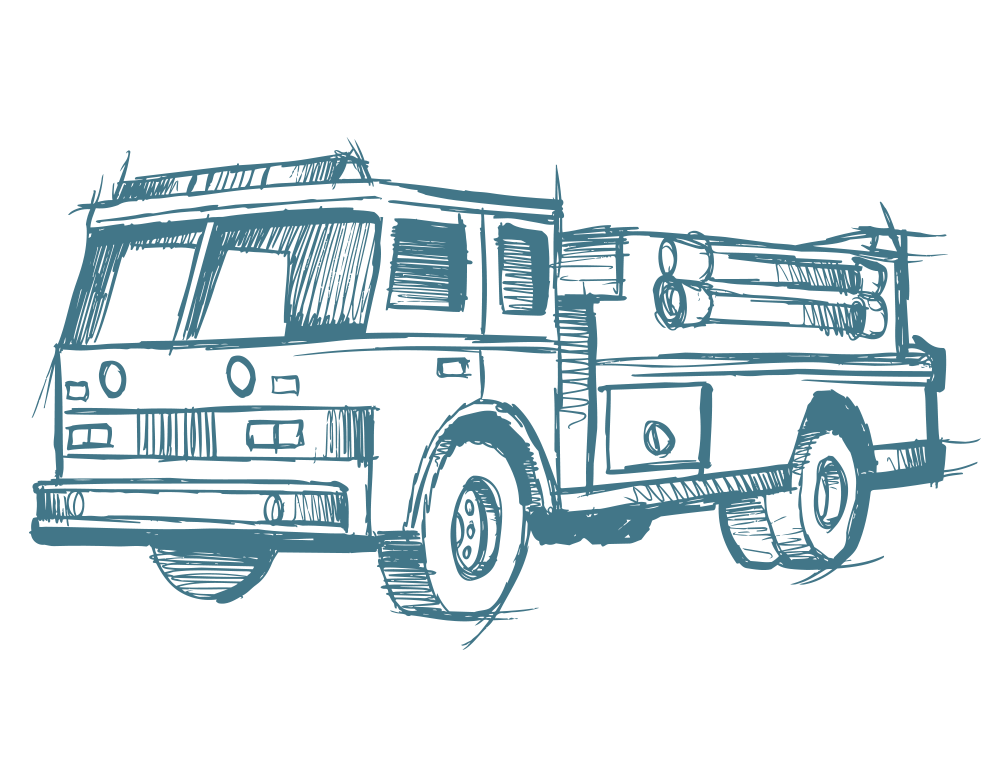
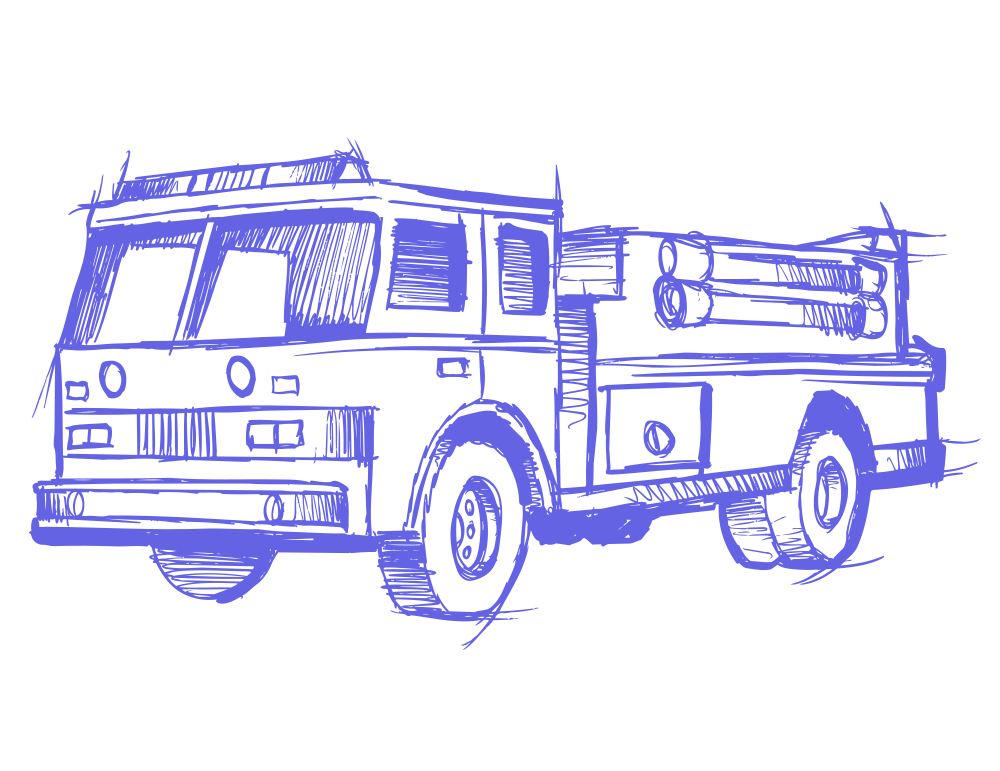
Updated image color & implemented simple functions

Changed region(s): [[0.031, 0.1868, 0.961, 0.8405]]

diff --git a/public/request-drive.html b/public/request-drive.html
@@ -21,7 +21,7 @@
         integrity="sha256-mmZUVoGT35BoRGHNZJIaYOz4+EaLVsuu2p23NSIOwCY=" crossorigin="anonymous"></script>
 </head>
 
-<body>
+<body onload="loadCargoCategories()">
     <div class="docs-container off-canvas off-canvas-sidebar-show">
         <div class="docs-navbar">
             <a class="off-canvas-toggle btn btn-link btn-action" href="#sidebar"><i class="icon icon-menu"></i></a>
@@ -122,13 +122,8 @@
                                     </div>
                                     <div class="form-group py-2">
                                         <div class="input-group col-12">
-                                            <span class="input-group-addon addon-lg col-3 bg-primary">Price</span>
-                                            <select class="form-select select-lg" id="size">
-                                                <option>tiny</option>
-                                                <option>small</option>
-                                                <option>medium</option>
-                                                <option>large</option>
-                                                <option>giant</option>
+                                            <span class="input-group-addon addon-lg col-3 bg-primary">Cargo Size</span>
+                                            <select class="form-select select-lg" id="category">
                                             </select>
                                         </div>
                                     </div>

diff --git a/public/offer-drive.html b/public/offer-drive.html
@@ -21,7 +21,7 @@
         integrity="sha256-mmZUVoGT35BoRGHNZJIaYOz4+EaLVsuu2p23NSIOwCY=" crossorigin="anonymous"></script>
 </head>
 
-<body>
+<body onload="loadVehicles()">
     <div class="docs-container off-canvas off-canvas-sidebar-show">
         <div class="docs-navbar">
             <a class="off-canvas-toggle btn btn-link btn-action" href="#sidebar"><i class="icon icon-menu"></i></a>
@@ -118,9 +118,6 @@
                                         <div class="input-group col-12">
                                             <span class="input-group-addon addon-lg col-3 bg-primary">Vehicle</span>
                                             <select class="form-select select-lg" id="vehicle">
-                                                <option>VW Passat</option>
-                                                <option>Smart</option>
-                                                <option>7,5 Tonner</option>
                                             </select>
                                         </div>
                                     </div>

diff --git a/public/offer-ride.js b/public/offer-ride.js
@@ -1,0 +1,14 @@
+function loadCargoCategories(){
+
+    let cargoCategories = ["tiny","small","medium","large","giant"];
+
+    let cargoCategoriesListHTML = '';
+
+    let i;
+
+    for(i = 0; i < cargoCategories.length; i++){
+        cargoCategoriesListHTML += "<option>" + cargoCategories[i] + "</option>";
+    }
+
+    document.getElementById('category').innerHTML = cargoCategoriesListHTML;
+}

diff --git a/public/offer-drive.js b/public/offer-drive.js
@@ -1,0 +1,14 @@
+function loadVehicles(){
+
+    let vehicleNames = ["Polo","Golf","VW"];
+
+    let vehicleListHTML = '';
+
+    let i;
+
+    for(i = 0; i < vehicleNames.length; i++){
+        vehicleListHTML += "<option>" + vehicleNames[i] + "</option>";
+    }
+
+    document.getElementById('vehicle').innerHTML = vehicleListHTML;
+}
